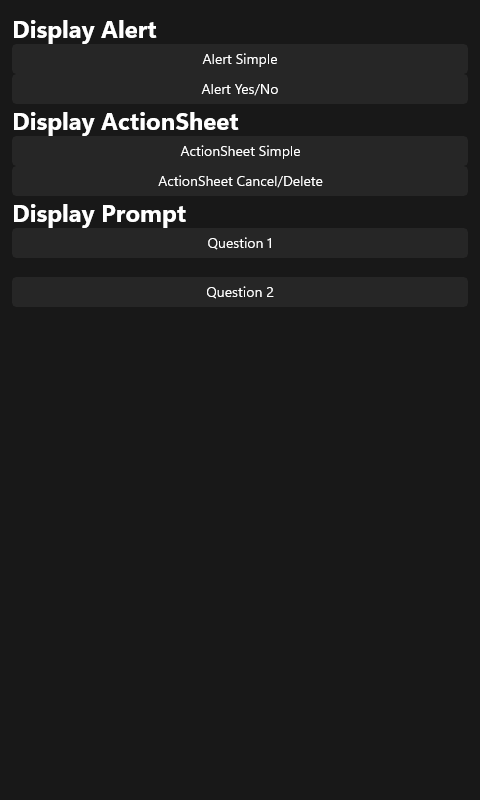
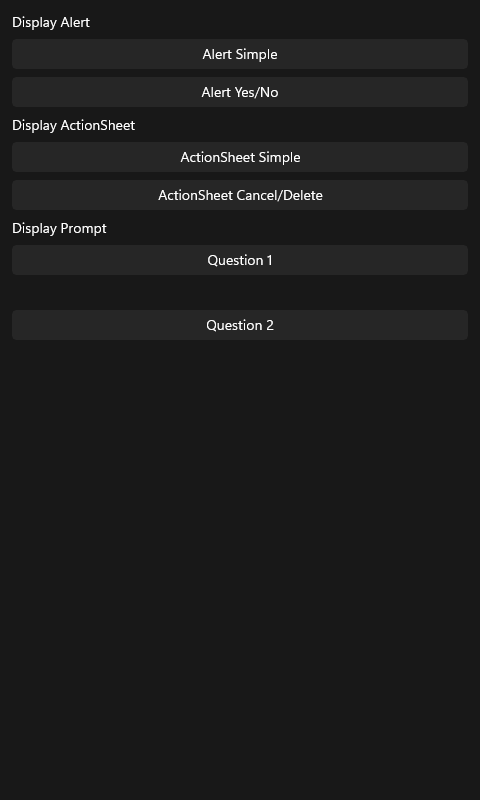
fix(gallery_xaml): alerts headers plain-default + StackLayout Spacing=8 (match cpp twin / MAUI)
The xaml twin over-styled section headers with inline FontSize=24/Bold as a stand-in for the unresolved
{StaticResource Headline}; but maui-compare leaves Styles.xaml unmerged, so MAUI renders the native-default
(small, regular) — and the cpp twin (which matches MAUI) uses plain Labels + StackLayout Spacing=8. Align
the xaml markup: plain headers + Spacing=8. xaml alerts now matches MAUI (small regular headers, button
gaps). Cross-platform example markup (not OS handler code); validated on Windows.

diff --git a/port/cpp/examples/gallery_xaml/Views/alerts.xaml b/port/cpp/examples/gallery_xaml/Views/alerts.xaml
@@ -2,19 +2,21 @@
              xmlns:x="http://schemas.microsoft.com/winfx/2006/xaml" Title="Alerts">
     <!-- Twin of AlertsPage.xaml: three Page-dialog sections (Alert / ActionSheet / Prompt), each a
          headline label + buttons, plus the two prompt result labels. The Page dialog services and the
-         Clicked handlers are omitted (structural twin — no view-model / code-behind). The section
-         headings use FontSize/Bold inline because the {StaticResource Headline} style is not in the
-         twin scope. -->
-    <StackLayout Margin="12">
-        <Label Text="Display Alert" FontSize="24" FontAttributes="Bold" />
+         Clicked handlers are omitted (structural twin — no view-model / code-behind). Section headings
+         are PLAIN default Labels to match the cpp twin + maui-compare: maui-compare's {StaticResource
+         Headline} does not resolve (Styles.xaml is intentionally unmerged), so MAUI renders the native
+         default weight/size — the earlier inline FontSize=24/Bold over-styled them. StackLayout carries
+         Spacing="8" to match the cpp twin's inter-control gaps. -->
+    <StackLayout Margin="12" Spacing="8">
+        <Label Text="Display Alert" />
         <Button Text="Alert Simple" />
         <Button Text="Alert Yes/No" />
 
-        <Label Text="Display ActionSheet" FontSize="24" FontAttributes="Bold" />
+        <Label Text="Display ActionSheet" />
         <Button Text="ActionSheet Simple" />
         <Button Text="ActionSheet Cancel/Delete" />
 
-        <Label Text="Display Prompt" FontSize="24" FontAttributes="Bold" />
+        <Label Text="Display Prompt" />
         <Button Text="Question 1" />
         <Label />
         <Button Text="Question 2" />
